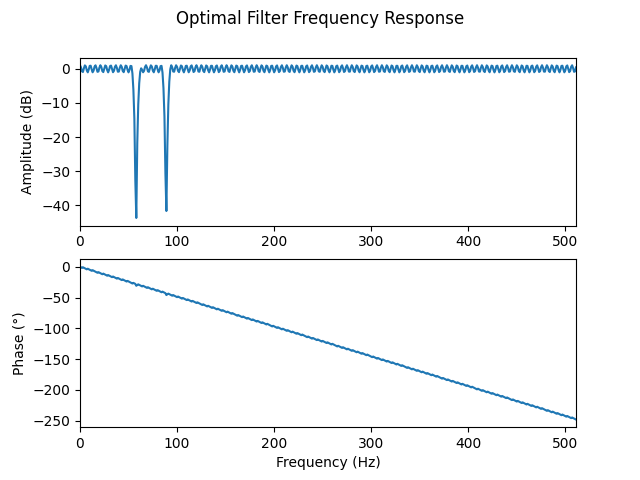
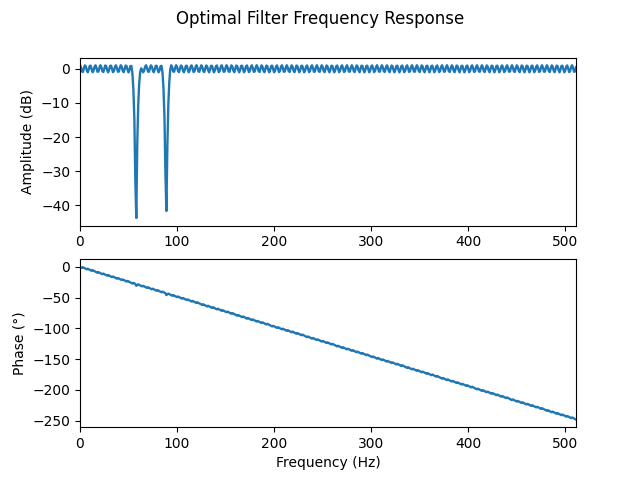
style globals

diff --git a/signalPlots.py b/signalPlots.py
@@ -9,12 +9,21 @@
     Last Modified: 07/08/2020
 """
 
+# Imported libraries
 from scipy.signal import freqz, lfilter, firwin, remez, firwin2, convolve
 from scipy.fft import fft
 import matplotlib.pyplot as plt
 import matplotlib.patches as mpatches
 import numpy as np
 
+
+# Global variables
+TIME_LINE_WIDTH = 0.5 # The linewidth of the time domain plots
+SPECTRUM_LINE_WIDTH = 0.2 # The linewidth of the signal spectrum plots
+FILTER_LINE_WIDTH = 1.7 # The linewidth of filter response plots
+
+
+# Functions
 
 #
 # Unfiltered Plots
@@ -23,7 +32,7 @@ def plotECG(samples, time):
     """Plot a time domain graph of the ECG data"""
 
     ECG = plt.figure()
-    plt.plot(time, samples)
+    plt.plot(time, samples, linewidth=TIME_LINE_WIDTH)
     plt.xlabel("Time (s)")
     plt.ylabel("Amplitude (µV)")
     plt.suptitle("Time domain ECG signal")
@@ -37,7 +46,7 @@ def plotECGSpectrum(frequency, frequency_data):
     """Calculate and plot the frequency spectrum of the ECG"""
 
     ECGSpectrum = plt.figure()
-    plt.plot(frequency, 20 * np.log10(abs(frequency_data)))
+    plt.plot(frequency, 20 * np.log10(abs(frequency_data)), linewidth=SPECTRUM_LINE_WIDTH)
     plt.xlabel("Frequency (Hz)")
     plt.ylabel("Amplitude (dB)")
     plt.suptitle("Frequency Spectrum of the ECG signal")
@@ -116,7 +125,7 @@ def plotIIRNotchECG(samples, time):
     """Plot a time domain graph of the IIR notch filtered ECG data"""
 
     IIRNotchECG = plt.figure()
-    plt.plot(time, samples)
+    plt.plot(time, samples, linewidth=TIME_LINE_WIDTH)
     plt.xlabel("Time (s)")
     plt.ylabel("Amplitude (µV)")
     plt.suptitle("Time domain IIR Notch Filtered ECG signal")
@@ -130,7 +139,7 @@ def plotIIRNotchECGSpectrum(notch_frequency, notch_freq_data):
     """Calculate and plot the frequency spectrum of the ECG after filtering with an IIR notch filter"""
 
     IIRNotchECGSpectrum = plt.figure()
-    plt.plot(notch_frequency, 20 * np.log10(abs(notch_freq_data)))
+    plt.plot(notch_frequency, 20 * np.log10(abs(notch_freq_data)), linewidth=SPECTRUM_LINE_WIDTH)
     plt.xlabel("Frequency (Hz)")
     plt.ylabel("Amplitude (dB)")
     plt.suptitle("Frequency Spectrum of the IIR Notch Filtered ECG signal")
@@ -153,12 +162,12 @@ def plotIIRNotchFilterResponse(numuerator, denominator, f_samp):
 
     # Plot magnitude response
     #IIR_ax1.plot(freq, 20 * np.log10(abs(response))) # Plot magnitude in dB vs Hz
-    IIR_ax1.plot(freq, 20 * abs(response))  # Plot magnitude Hz
+    IIR_ax1.plot(freq, abs(response), linewidth=FILTER_LINE_WIDTH)  # Plot magnitude Hz
     IIR_ax1.set_ylabel("Amplitude (dB)")
     IIR_ax1.set_xlim(freq[0], freq[-1])  # Limit the x axis from 0 to Nyquist frequency
 
     # Plot phase response
-    IIR_ax2.plot(freq, np.angle(response, deg=True)) # Plot phase in dB vs degrees
+    IIR_ax2.plot(freq, np.angle(response, deg=True), linewidth=FILTER_LINE_WIDTH) # Plot phase in dB vs degrees
     IIR_ax2.set_ylabel("Phase (°)")
     IIR_ax2.set_xlim(freq[0], freq[-1])  # Limit the x axis from 0 to Nyquist frequency
 
@@ -173,7 +182,7 @@ def plotWindowedECG(samples, time):
     """Plot a time domain graph of the window filtered ECG data"""
 
     WindowedECG = plt.figure()
-    plt.plot(time, samples)
+    plt.plot(time, samples, linewidth=TIME_LINE_WIDTH)
     plt.xlabel("Time (s)")
     plt.ylabel("Amplitude (µV)")
     plt.suptitle("Time Domain Window Filtered ECG Signal")
@@ -187,7 +196,7 @@ def plotWindowedECGSpectrum(frequency, frequency_data):
     """Calculate and plot the window filtered ECG frequency spectrum"""
 
     WindowedECGSpectrum = plt.figure()
-    plt.plot(frequency, 20 * np.log10(abs(frequency_data)))
+    plt.plot(frequency, 20 * np.log10(abs(frequency_data)), linewidth=SPECTRUM_LINE_WIDTH)
     plt.xlabel("Frequency (Hz)")
     plt.ylabel("Amplitude (dB)")
     plt.suptitle("Frequency Spectrum of the Window Filtered ECG Signal")
@@ -209,12 +218,12 @@ def plotWindowFilterResponse(filter_array, f_samp):
      plt.xlabel("Frequency (Hz)")
 
      # Plot magnitude response
-     window_ax1.plot(freq, 20 * np.log10(abs(response)))  # Plot magnitude in dB vs Hz
+     window_ax1.plot(freq, 20 * np.log10(abs(response)), linewidth=FILTER_LINE_WIDTH)  # Plot magnitude in dB vs Hz
      window_ax1.set_ylabel("Amplitude (dB)")
      window_ax1.set_xlim(freq[0], freq[-1])  # Limit the x axis from 0 to Nyquist frequency
 
      # Plot phase response
-     window_ax2.plot(freq, np.unwrap(np.angle(response, deg=True)))  # Plot phase in dB vs degrees
+     window_ax2.plot(freq, np.unwrap(np.angle(response, deg=True)), linewidth=FILTER_LINE_WIDTH)  # Plot phase in dB vs degrees
      window_ax2.set_ylabel("Phase (°)")
      window_ax2.set_xlim(freq[0], freq[-1])  # Limit the x axis from 0 to Nyquist frequency
 
@@ -228,7 +237,7 @@ def plotOptimalECG(samples, time):
     """Plot a time domain graph of the window filtered ECG data"""
 
     OptimalECG = plt.figure()
-    plt.plot(time, samples)
+    plt.plot(time, samples, linewidth=TIME_LINE_WIDTH)
     plt.xlabel("Time (s)")
     plt.ylabel("Amplitude (µV)")
     plt.suptitle("Time Domain Optimal Filtered ECG Signal")
@@ -242,7 +251,7 @@ def plotOptimalECGSpectrum(frequency, frequency_data):
     """Calculate and plot the window filtered ECG frequency spectrum"""
 
     OptimalECGSpectrum = plt.figure()
-    plt.plot(frequency, 20 * np.log10(abs(frequency_data)))
+    plt.plot(frequency, 20 * np.log10(abs(frequency_data)), linewidth=SPECTRUM_LINE_WIDTH)
     plt.xlabel("Frequency (Hz)")
     plt.ylabel("Amplitude (dB)")
     plt.suptitle("Frequency Spectrum of the Optimal Filtered ECG Signal")
@@ -264,12 +273,12 @@ def plotOptimalFilterResponse(filter_array, f_samp):
      plt.xlabel("Frequency (Hz)")
 
      # Plot magnitude response
-     optimal_ax1.plot(freq, 20 * np.log10(abs(response)))  # Plot magnitude in dB vs Hz
+     optimal_ax1.plot(freq, 20 * np.log10(abs(response)), linewidth=FILTER_LINE_WIDTH)  # Plot magnitude in dB vs Hz
      optimal_ax1.set_ylabel("Amplitude (dB)")
      optimal_ax1.set_xlim(freq[0], freq[-1])  # Limit the x axis from 0 to Nyquist frequency
 
      # Plot phase response
-     optimal_ax2.plot(freq, np.unwrap(np.angle(response, deg=True)))  # Plot phase in dB vs degrees
+     optimal_ax2.plot(freq, np.unwrap(np.angle(response, deg=True)), linewidth=FILTER_LINE_WIDTH)  # Plot phase in dB vs degrees
      optimal_ax2.set_ylabel("Phase (°)")
      optimal_ax2.set_xlim(freq[0], freq[-1])  # Limit the x axis from 0 to Nyquist frequency
 
@@ -284,7 +293,7 @@ def plotFrequencySampledECG(samples, time):
     """Plot a time domain graph of the Frequency Sampling filtered ECG data"""
 
     freqSampledECG = plt.figure()
-    plt.plot(time, samples)
+    plt.plot(time, samples, linewidth=TIME_LINE_WIDTH)
     plt.xlabel("Time (s)")
     plt.ylabel("Amplitude (µV)")
     plt.suptitle("Time Domain Frequency Sampling Filtered ECG Signal")
@@ -298,7 +307,7 @@ def plotFrequencySampledECGSpectrum(frequency, frequency_data):
     """Calculate and plot the Frequency Sampling filtered ECG frequency spectrum"""
 
     FreqECGSpectrum = plt.figure()
-    plt.plot(frequency, 20 * np.log10(abs(frequency_data)))
+    plt.plot(frequency, 20 * np.log10(abs(frequency_data)), linewidth=SPECTRUM_LINE_WIDTH)
     plt.xlabel("Frequency (Hz)")
     plt.ylabel("Amplitude (dB)")
     plt.suptitle("Frequency Spectrum of the Frequency Sampling Filtered ECG Signal")
@@ -320,12 +329,12 @@ def plotFrequencySampledFilterResponse(filter_array, f_samp):
      plt.xlabel("Frequency (Hz)")
 
      # Plot magnitude response
-     freq_ax1.plot(freq, 20 * np.log10(abs(response)), linewidth=0.2)  # Plot magnitude in dB vs Hz
+     freq_ax1.plot(freq, 20 * np.log10(abs(response)), linewidth=FILTER_LINE_WIDTH)  # Plot magnitude in dB vs Hz
      freq_ax1.set_ylabel("Amplitude (dB)")
      freq_ax1.set_xlim(freq[0], freq[-1])  # Limit the x axis from 0 to Nyquist frequency
 
      # Plot phase response
-     freq_ax2.plot(freq, np.unwrap(np.angle(response, deg=True)))  # Plot phase in dB vs degrees
+     freq_ax2.plot(freq, np.unwrap(np.angle(response, deg=True)), linewidth=FILTER_LINE_WIDTH)  # Plot phase in dB vs degrees
      freq_ax2.set_ylabel("Phase (°)")
      freq_ax2.set_xlim(freq[0], freq[-1])  # Limit the x axis from 0 to Nyquist frequency
 

diff --git a/main.py b/main.py
@@ -24,7 +24,6 @@ import shutil
 from signalPlots import *
 
 
-
 # Functions
 
 #
@@ -113,6 +112,9 @@ def calculateGainFactor(numerator, denominator, passband_freq, sampling_freq):
     denominator_sum = 0
 
     # Calculate the value of the numerator and denominator by iterating through each tap
+    exp_array = [1, np.exp(1j * 2 * np.pi * passband_freq), np.exp(2j * 2 * np.pi * passband_freq)]
+    #numerator_sum = np.dot(numerator, exp_array)
+    #denominator_sum = np.dot(denominator, exp_array)
     for delay_index in range(len(numerator)):
 
         # Calculate the value of the numerator at tap
@@ -126,8 +128,7 @@ def calculateGainFactor(numerator, denominator, passband_freq, sampling_freq):
     # Calculate gain factor. At unity gain: gain_factor * numerator_sum/denominator_sum = 1
     gain_factor = denominator_sum/numerator_sum
 
-    #return gain_factor
-    return 1
+    return gain_factor
 
 
 
@@ -138,8 +139,8 @@ def createIIRNotchFilter(notch_freq, notch_width, sample_rate):
     gain_factor = calculateGainFactor(numerator, denominator, 10, sample_rate) # Calculate gain factors needed to get unity gain in passband
     normalised_numerator = np.array(numerator) * gain_factor  # Normalise passband of filters to unity gain
 
+    #return normalised_numerator, denominator
     return normalised_numerator, denominator
-
 
 
 def applyIIRNotchFilters(numerator_1, denominator_1, numerator_2, denominator_2, data):
@@ -361,8 +362,7 @@ def main():
     notch_time = getTimeData(sample_rate, len(notched_samples)) # Create a time array based on notch filtered data
     notch_frequency, notch_freq_data = calcFreqSpectrum(notched_samples, sample_rate) # Calculate frequency of the IIR filtered ECG data
     notched_numerator, notched_denominator = combineFilters(notch_num_1, notch_denom_1, notch_num_2, notch_denom_2)  # Combine the two IIR notch filters
-    print(notch_num_2)
-    print(notch_denom_2)
+
     # Create and apply FIR filters to data
     window_filter_1, window_filter_2, window_filter_overall = createWindowFilter(cutoff, sample_rate, notch_width, num_FIR_taps) # Calculate window filter coefficents
     half_windowed_samples, full_windowed_samples, overall_windowed_samples = applyFIRFilters(window_filter_1, window_filter_2, window_filter_overall, samples) # Apply window filter to data
